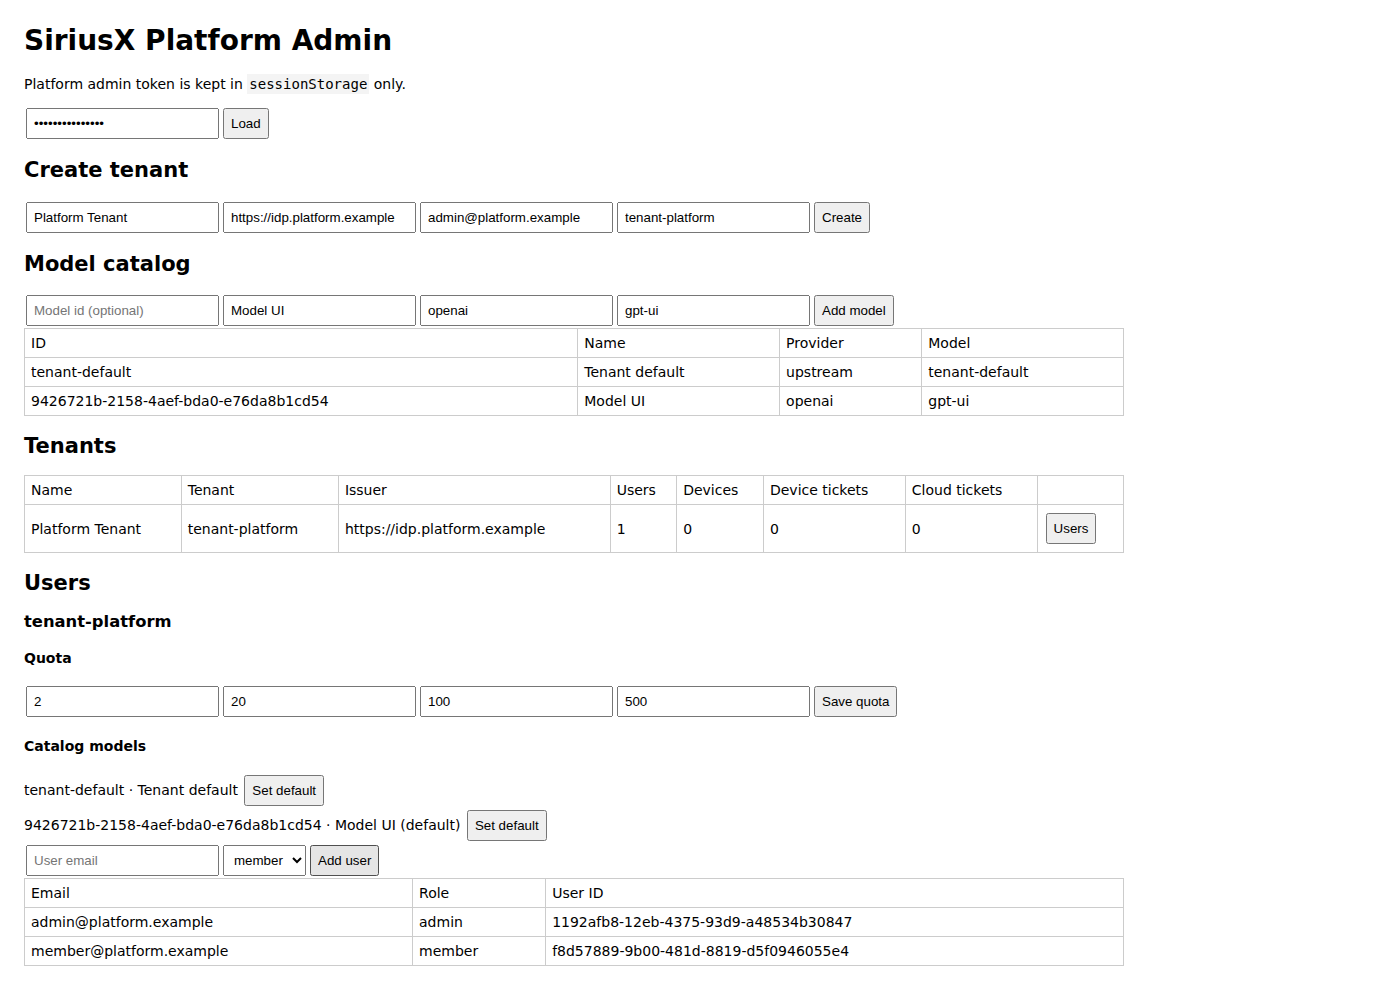
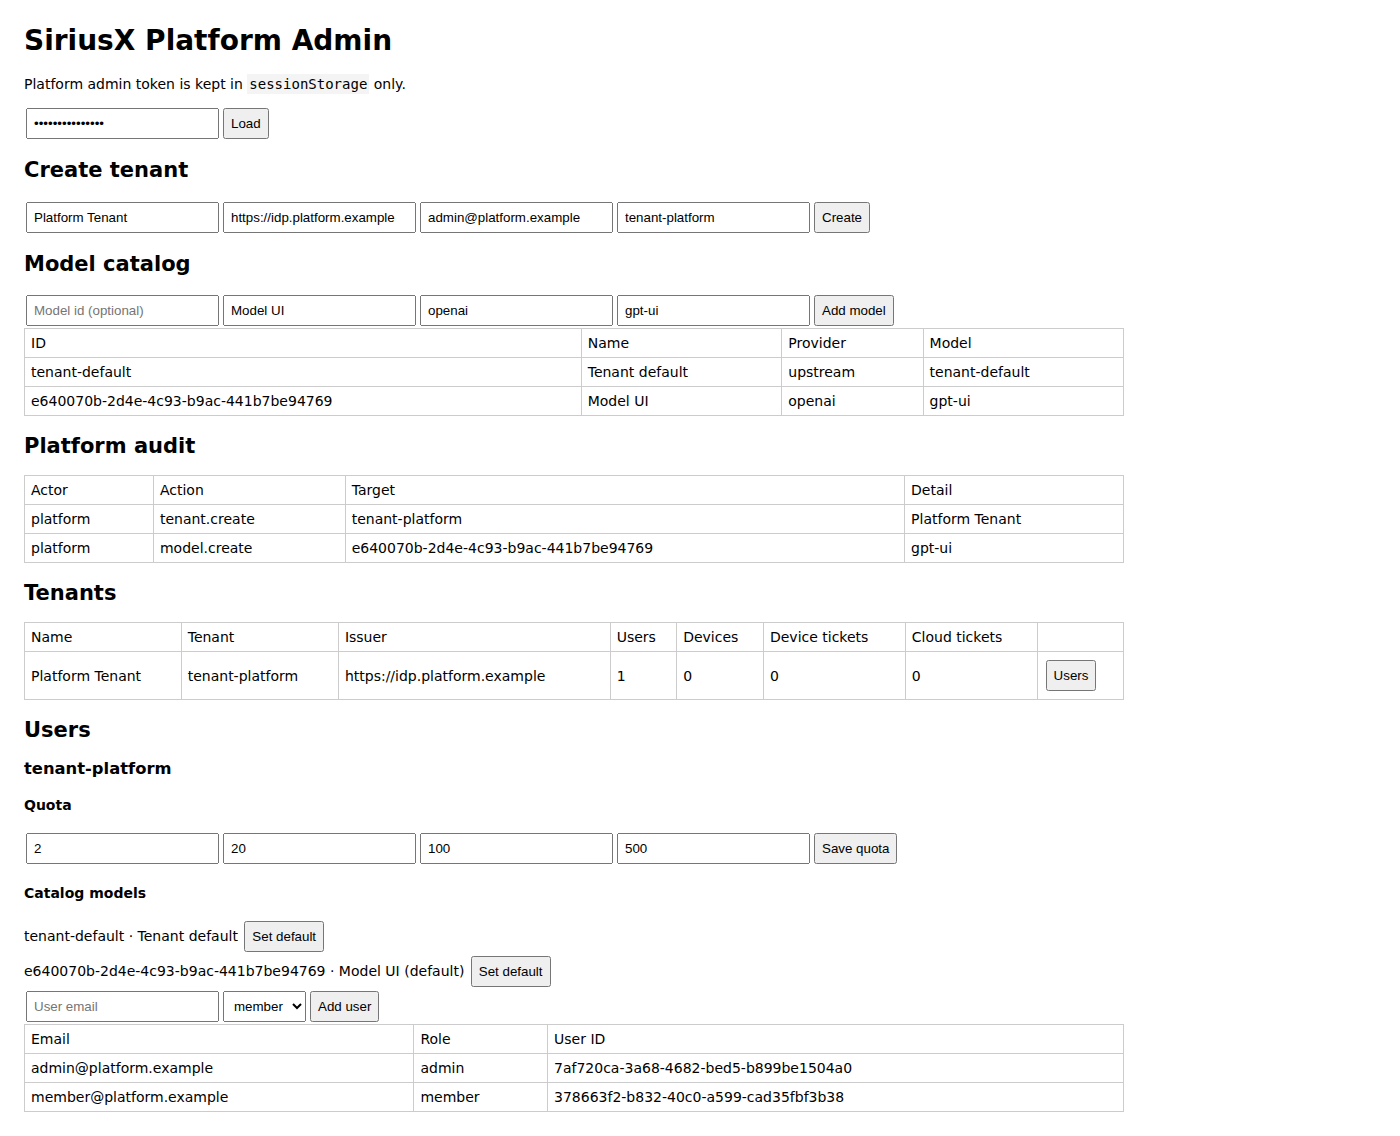
feat: audit platform admin operations

diff --git a/apps/control-plane/src/server.ts b/apps/control-plane/src/server.ts
@@ -100,6 +100,7 @@ export async function startControlPlaneServer(options: ControlPlaneServerOptions
 <div><input id="token" type="password" placeholder="X-SiriusX-Platform-Token"><button id="load">Load</button></div>
 <div id="create"><h2>Create tenant</h2><input id="name" placeholder="Name"><input id="issuer" placeholder="IdP issuer"><input id="email" placeholder="Admin email"><input id="tenantId" placeholder="Tenant id (optional)"><button id="createTenant">Create</button></div>
 <div id="models"><h2>Model catalog</h2><input id="modelId" placeholder="Model id (optional)"><input id="modelName" placeholder="Display name"><input id="modelProvider" placeholder="Provider"><input id="modelNameId" placeholder="Provider model id"><button id="createModel">Add model</button><div id="modelList">Load to begin.</div></div>
+<h2>Platform audit</h2><div id="platformAudit">Load to begin.</div>
 <h2>Tenants</h2><div id="tenants">Load to begin.</div>
 <h2 id="usersTitle" style="display:none">Users</h2><div id="users"></div>
 <div id="error" style="color:#b00020"></div>
@@ -109,6 +110,13 @@ const headers = () => ({'x-siriusx-platform-token': token(), 'content-type': 'ap
 const err = e => document.getElementById('error').textContent = e instanceof Error ? e.message : String(e);
 async function api(path, init = {}) { const r = await fetch(path, {...init, headers: headers()}); const v = await r.json(); if (!r.ok) throw new Error(v.error || ('HTTP ' + r.status)); return v; }
 function row(text) { const tr = document.createElement('tr'); for (const value of text) { const td = document.createElement('td'); td.textContent = String(value); tr.append(td); } return tr; }
+async function loadPlatformAudit() {
+  const data = await api('/v1/admin/audit');
+  const host = document.getElementById('platformAudit'); host.textContent = '';
+  const table = document.createElement('table'); table.append(row(['Actor','Action','Target','Detail']));
+  for (const event of data.audit) table.append(row([event.actor, event.action, event.target, event.detail ?? '']));
+  host.append(table);
+}
 async function loadModels() {
   const data = await api('/v1/admin/models');
   const host = document.getElementById('modelList'); host.textContent = '';
@@ -147,9 +155,9 @@ async function loadUsers(tenantId) {
   for (const user of data.users) table.append(row([user.email, user.role, user.userId]));
   host.append(table);
 }
-document.getElementById('load').onclick = async () => { try { sessionStorage.setItem('platformToken', document.getElementById('token').value); await Promise.all([loadTenants(), loadModels()]); } catch (e) { err(e); } };
+document.getElementById('load').onclick = async () => { try { sessionStorage.setItem('platformToken', document.getElementById('token').value); await Promise.all([loadTenants(), loadModels(), loadPlatformAudit()]); } catch (e) { err(e); } };
 document.getElementById('createModel').onclick = async () => { try { await api('/v1/admin/models', {method:'POST', body: JSON.stringify({id: document.getElementById('modelId').value || undefined, name: document.getElementById('modelName').value, provider: document.getElementById('modelProvider').value, model: document.getElementById('modelNameId').value})}); await loadModels(); } catch (e) { err(e); } };
-document.getElementById('createTenant').onclick = async () => { try { await api('/v1/admin/tenants', {method:'POST', body: JSON.stringify({name:document.getElementById('name').value, idpIssuer:document.getElementById('issuer').value, adminEmail:document.getElementById('email').value, ...(document.getElementById('tenantId').value === '' ? {} : {tenantId:document.getElementById('tenantId').value})})}); await loadTenants(); } catch (e) { err(e); } };
+document.getElementById('createTenant').onclick = async () => { try { await api('/v1/admin/tenants', {method:'POST', body: JSON.stringify({name:document.getElementById('name').value, idpIssuer:document.getElementById('issuer').value, adminEmail:document.getElementById('email').value, ...(document.getElementById('tenantId').value === '' ? {} : {tenantId:document.getElementById('tenantId').value})})}); await loadTenants(); await loadPlatformAudit(); } catch (e) { err(e); } };
 </script>`)
         return
       }
@@ -208,6 +216,10 @@ document.getElementById('createTenant').onclick = async () => { try { await api(
       }
       if (parts[0] === 'v1' && parts[1] === 'admin') {
         requirePlatformAdmin(request)
+        if (request.method === 'GET' && parts[2] === 'audit' && parts[3] === undefined) {
+          write(response, 200, { audit: control.listPlatformAudit() })
+          return
+        }
         if (request.method === 'GET' && parts[2] === 'tenants' && parts[3] === undefined) {
           write(response, 200, { tenants: control.listTenants().map(tenant => ({ ...tenant, usage: control.tenantUsage(tenant.id) })) })
           return
@@ -219,6 +231,7 @@ document.getElementById('createTenant').onclick = async () => { try { await api(
             name: body.name, idpIssuer: body.idpIssuer, adminEmail: body.adminEmail,
             ...(typeof body.tenantId === 'string' ? { tenantId: body.tenantId } : {}),
           })
+          control.recordPlatformAudit({ actor: 'platform', action: 'tenant.create', target: tenant.id, detail: tenant.name })
           write(response, 201, { tenant })
           return
         }
@@ -227,7 +240,9 @@ document.getElementById('createTenant').onclick = async () => { try { await api(
           if (request.method === 'POST') {
             const body = await readJson(request)
             if (typeof body.name !== 'string' || typeof body.provider !== 'string' || typeof body.model !== 'string') throw new Error('name, provider and model are required')
-            write(response, 201, control.addModel({ name: body.name, provider: body.provider, model: body.model, ...(typeof body.id === 'string' ? { id: body.id } : {}) }))
+            const model = control.addModel({ name: body.name, provider: body.provider, model: body.model, ...(typeof body.id === 'string' ? { id: body.id } : {}) })
+            control.recordPlatformAudit({ actor: 'platform', action: 'model.create', target: model.id, detail: body.model })
+            write(response, 201, model)
             return
           }
         }
@@ -236,6 +251,7 @@ document.getElementById('createTenant').onclick = async () => { try { await api(
           if (request.method === 'PUT' && parts[5] !== undefined) {
             const body = await readJson(request)
             control.bindTenantModel(parts[3], parts[5], body.isDefault === true)
+            control.recordPlatformAudit({ actor: 'platform', action: 'model.bind', target: `${parts[3]}/${parts[5]}`, detail: body.isDefault === true ? 'default' : 'bound' })
             write(response, 200, { models: control.listTenantModels(parts[3]) })
             return
           }
@@ -256,7 +272,9 @@ document.getElementById('createTenant').onclick = async () => { try { await api(
               ...(typeof body.maxCloudTicketsPerDay === 'number' ? { maxCloudTicketsPerDay: body.maxCloudTicketsPerDay } : {}),
               ...(typeof body.maxDeviceTicketsPerDay === 'number' ? { maxDeviceTicketsPerDay: body.maxDeviceTicketsPerDay } : {}),
             }
-            write(response, 200, { quota: control.setQuota(parts[3], patch), usage: control.tenantUsage(parts[3]) })
+            const quota = control.setQuota(parts[3], patch)
+            control.recordPlatformAudit({ actor: 'platform', action: 'quota.update', target: parts[3], detail: JSON.stringify(quota) })
+            write(response, 200, { quota, usage: control.tenantUsage(parts[3]) })
             return
           }
         }
@@ -265,13 +283,16 @@ document.getElementById('createTenant').onclick = async () => { try { await api(
           if (request.method === 'POST' && parts[5] === undefined) {
             const body = await readJson(request)
             if (typeof body.email !== 'string' || (body.role !== 'admin' && body.role !== 'member')) throw new Error('email and role are required')
-            write(response, 201, control.addUser({ tenantId: parts[3], email: body.email, role: body.role }))
+            const user = control.addUser({ tenantId: parts[3], email: body.email, role: body.role })
+            control.recordPlatformAudit({ actor: 'platform', action: 'user.create', target: `${parts[3]}/${user.userId}`, detail: body.email })
+            write(response, 201, user)
             return
           }
           if (request.method === 'PUT' && parts[5] !== undefined && parts[6] === 'role') {
             const body = await readJson(request)
             if (body.role !== 'admin' && body.role !== 'member') throw new Error('role is required')
             control.updateUserRole(parts[3], parts[5], body.role)
+            control.recordPlatformAudit({ actor: 'platform', action: 'user.role', target: `${parts[3]}/${parts[5]}`, detail: body.role })
             write(response, 200, { updated: true })
             return
           }

diff --git a/apps/control-plane/src/index.ts b/apps/control-plane/src/index.ts
@@ -103,6 +103,14 @@ CREATE TABLE IF NOT EXISTS pairing_codes (
   expires_at INTEGER NOT NULL,
   consumed_at INTEGER
 );
+CREATE TABLE IF NOT EXISTS platform_audit (
+  id INTEGER PRIMARY KEY AUTOINCREMENT,
+  actor TEXT NOT NULL,
+  action TEXT NOT NULL,
+  target TEXT NOT NULL,
+  detail TEXT,
+  created_at INTEGER NOT NULL
+);
 CREATE TABLE IF NOT EXISTS model_catalog (
   id TEXT PRIMARY KEY,
   name TEXT NOT NULL,
@@ -258,6 +266,17 @@ export class ControlPlane {
     return (this.#db.prepare('SELECT * FROM tenants ORDER BY created_at, rowid').all() as Array<{
       id: string; name: string; idp_issuer: string; created_at: number
     }>).map(row => ({ id: row.id, name: row.name, idpIssuer: row.idp_issuer, createdAt: row.created_at }))
+  }
+
+  recordPlatformAudit(input: { actor: string; action: string; target: string; detail?: string }): void {
+    this.#db.prepare('INSERT INTO platform_audit (actor, action, target, detail, created_at) VALUES (?, ?, ?, ?, ?)')
+      .run(input.actor, input.action, input.target, input.detail ?? null, this.#now())
+  }
+
+  listPlatformAudit(limit = 100): Array<{ id: number; actor: string; action: string; target: string; detail: string | null; createdAt: number }> {
+    return (this.#db.prepare('SELECT * FROM platform_audit ORDER BY created_at DESC, rowid DESC LIMIT ?').all(limit) as Array<{
+      id: number; actor: string; action: string; target: string; detail: string | null; created_at: number
+    }>).map(row => ({ id: row.id, actor: row.actor, action: row.action, target: row.target, detail: row.detail, createdAt: row.created_at }))
   }
 
   listModelCatalog(): Array<{ id: string; name: string; provider: string; model: string; enabled: boolean }> {

diff --git a/evidence/S5/15-platform-admin-ui/run.ts b/evidence/S5/15-platform-admin-ui/run.ts
@@ -40,9 +40,9 @@ try {
   await page.waitForTimeout(500)
   const body = await page.locator('body').innerText()
   await page.screenshot({ path: '/root/siriusx/evidence/S5/15-platform-admin-ui/admin.png', fullPage: true })
-  const result = { tenant: body.includes('tenant-platform'), usage: body.includes('Platform Tenant'), quota: body.includes('Quota') && body.includes('Save quota'), model: body.includes('Model UI') && body.includes('Catalog models'), user: body.includes('member@platform.example'), errors }
+  const result = { tenant: body.includes('tenant-platform'), usage: body.includes('Platform Tenant'), quota: body.includes('Quota') && body.includes('Save quota'), model: body.includes('Model UI') && body.includes('Catalog models'), audit: body.includes('Platform audit') && body.includes('tenant.create'), user: body.includes('member@platform.example'), errors }
   console.log(JSON.stringify(result, null, 2))
-  if (!result.tenant || !result.usage || !result.quota || !result.model || !result.user || errors.length > 0) process.exitCode = 1
+  if (!result.tenant || !result.usage || !result.quota || !result.model || !result.audit || !result.user || errors.length > 0) process.exitCode = 1
 } finally {
   await browser.close(); await server.close(); await rm(root, { recursive: true, force: true })
 }

diff --git a/docs/status.md b/docs/status.md
@@ -8,7 +8,7 @@
 | S3 本机闭环 | `packages/executor-local`、`plugins/executor-local`、`apps/autobot` | `evidence/S3/` | **完成**：真实 DSH AgentLoop、Bot/DSH Web Host SIGKILL/重启、模型断线、previews/TTL/进程组清理/env 隔离/symlink 越界防护、lost 自动 resume 重试、sandbox orphan sweep + systemd timer 通过；tag `executor-v0.1.0` |
 | S4 工单界面 | 四个独立 client package + `packages/app-contract` + `apps/autobot/src/server.ts` | `evidence/S4/` | **部分**：发起/阶段/diff/排序/断线清空/审批/慢任务打断、四插件拆分通过；10 天自用待补 |
 | S5 登录/租户 | `plugins/account-sso`、`apps/control-plane`（含 device gateway/model gateway）、Desktop enterprise gate | `evidence/S5/` | **部分**：OIDC/隔离/配对/长连接/模型网关/隐私 badge/个人 Bot 派工/原生入口管理员开关、全栈离线一键安装、session TTL 过期拒绝、server-side revocation、server-side authority 通过；真实 IdP、KMS 待补 |
-| S6 工具网关 | `apps/tool-gateway`、`packages/analytics`、local_dir 上行过滤 | `evidence/S6/` | **部分**：审批过期 sweep/审计/fail-closed/分级/Bot 事件接线/完整 ticket trace + audit chain 状态 + tenant-scoped audit、管理面 API/UI + 平台运营 `/admin` + tenant quota enforcement、model catalog/binding/runtime enforcement、tenant tool policy/audit summary、tool-gateway 默认无 wildcard CORS、audit hash chain + verify endpoint/Vault KV v1+v2、TTL 轮换与 fail-closed 凭据适配、模型 key 抓包隔离、agent env/audit 凭据隔离、设备离线宽限 lost + 宽限期内重连恢复通过；真实 KMS/Vault 待补 |
+| S6 工具网关 | `apps/tool-gateway`、`packages/analytics`、local_dir 上行过滤 | `evidence/S6/` | **部分**：审批过期 sweep/审计/fail-closed/分级/Bot 事件接线/完整 ticket trace + audit chain 状态 + tenant-scoped audit、管理面 API/UI + 平台运营 `/admin` + tenant quota enforcement、model catalog/binding/runtime enforcement、tenant tool policy/audit summary/platform audit、tool-gateway 默认无 wildcard CORS、audit hash chain + verify endpoint/Vault KV v1+v2、TTL 轮换与 fail-closed 凭据适配、模型 key 抓包隔离、agent env/audit 凭据隔离、设备离线宽限 lost + 宽限期内重连恢复通过；真实 KMS/Vault 待补 |
 | S7 云执行 | `packages/cloud-executor`、`packages/kernel-acp` | `evidence/S7/` | **部分**：Docker/ACP/真实 dsh+pi（含 sandbox）/同工单内核一致性、本地/云端 DSH 事件序列一致性、ACP 边界/卷并发决策/云端 repo clone/沙箱 dispose/assignment timeout/资源限额+cap-drop/no-new-privileges+env+出口 allowlist/SQLite 恢复/GitHub/GitLab connector、gateway 审批写、mock Issue→MR 通过；真实平台 Issue→MR、M2 真崩溃待补 |
 | S8 发布 | `plugins/brand-siriusx`、`deploy/release`、`deploy/offline` | `evidence/S8/` | **部分**：品牌/图标/打包参数、Linux 全依赖离线 tar（含 sandbox image）、DSH Web 离线镜像、全栈 Compose、internal 网络隔离、断网 Debian 容器安装、native/Docker 单机安装、全栈离线一键包、health version/commit、`/ready` 就绪探针、Compose healthcheck、企业插件 bundle/资源清单、更新源 static feed（realpath 防 traversal）、本地发布门禁、脚本可移植性检查、发布清单、CycloneDX SBOM（transitive + license）+ license policy gate、补丁回移演练通过；mac/win 签名安装与全服务干净机验收待补 |
 | S9 Web | DSH Web Host + Team panel control-plane 模式 | `evidence/S9/` | **部分**：同插件复用、两租户隔离、HttpOnly cookie 同源网关、OIDC state cookie 绑定、浏览器 OIDC（本地 HS256/RS256 JWKS IdP）登录并看工单、同工单跨接入模式渲染一致、无原生对话/本地目录入口、Web 审批、HTTP/WS Origin 校验（支持 forwarded headers）、登录限流/trusted proxy IP、1 MiB 请求体/WS frame 上限、Secure cookie、login CSP/HSTS、local logout / OIDC RP-initiated logout、云端 repo URL 校验、项目发起/打断/重启对账/follow-up（API + Team UI，Docker+fake ACP）通过；真实企业 IdP/真实 agent 待补 |

diff --git a/TODO.md b/TODO.md
@@ -68,6 +68,7 @@
 - [x] Model catalog + tenant model binding（backend + /admin UI + runtime enforcement）
 - [x] Tenant tool policy（backend + control-plane proxy + Admin UI）
 - [x] Tenant audit summary（tool gateway aggregate + Admin UI）
+- [x] Platform admin audit trail（tenant/model/quota/user operations）
 - [x] Web Gateway 支持 X-Forwarded-Proto/Host 的 HTTPS Origin
 - [x] Trusted proxy 下的登录限流按 X-Forwarded-For 区分客户端
 - [x] HTTPS 下返回 HSTS

diff --git a/evidence/S5/15-platform-admin-ui/README.md b/evidence/S5/15-platform-admin-ui/README.md
@@ -13,7 +13,7 @@ Control Plane 新增独立 `/admin` 页面：
 - 创建 `tenant-platform`
 - 页面显示 Platform Tenant 与 usage 计数
 - 新增 `member@platform.example`
-- 新增 Model UI，保存租户 quota，默认模型设置
+- 新增 Model UI，保存租户 quota，绑定模型，Platform audit 显示 tenant.create
 - console errors 为空
 
 CSP：
